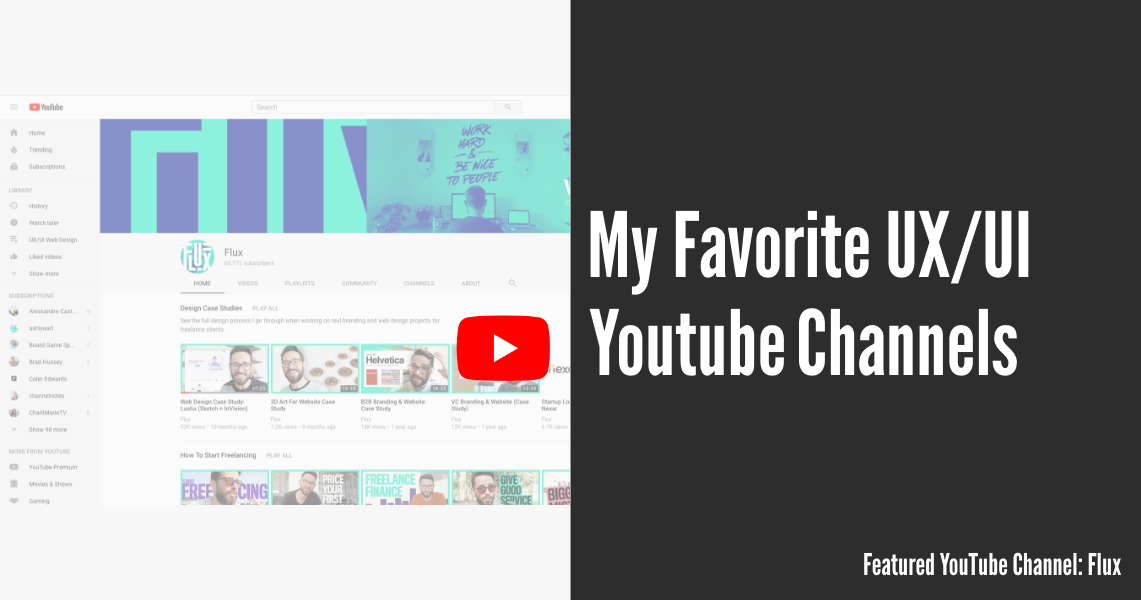
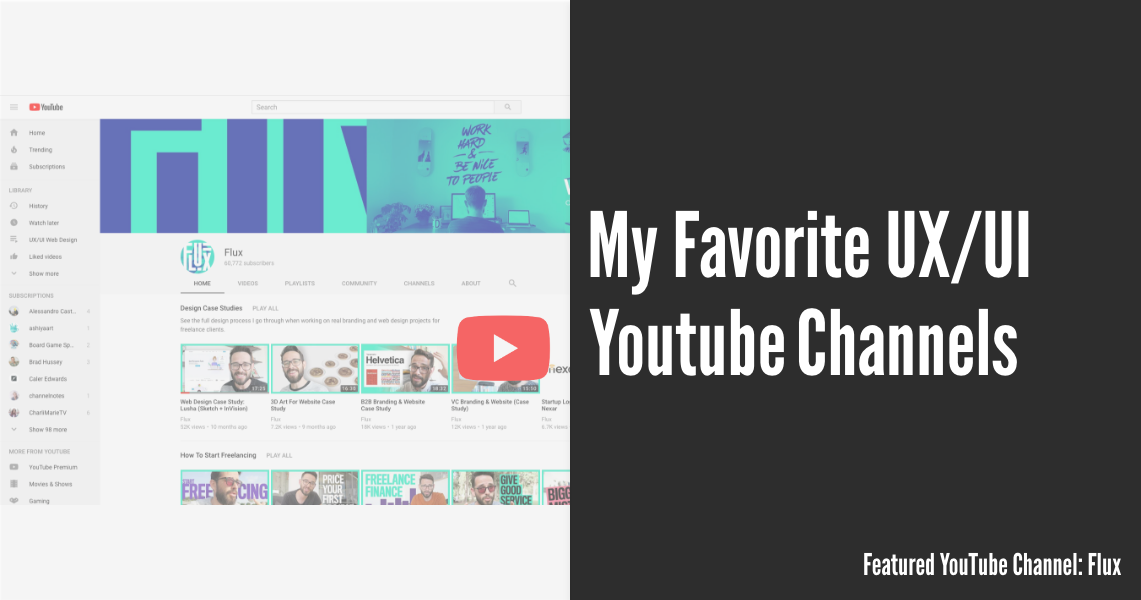
blog post 1

diff --git a/css/main.css b/css/main.css
@@ -40,14 +40,10 @@ p {
 
 p.gray { color: hsla(0, 0%, 40%, .5); }
 
-
-hr { border-top: 1px solid #000; }
-
-	hr.white { 
-		border-top: 1px solid #fff; 
-		opacity: 0.2;
-		margin: 75px 0 25px 0; 
-	}
+hr { 
+	border-top: 1px solid #000;
+	margin-bottom: 0;
+}
 
 span.bold { font-weight: 700; }
 
@@ -286,7 +282,7 @@ Blog Homepage
 ========================================================================== */
 #blog { 
     padding: 75px 0;
-    background-color: #f8f8f8;
+    /*background-color: #f8f8f8;*/
 }
 
 .blog-row { padding-top: 50px; }
@@ -360,7 +356,8 @@ Skillset
 ========================================================================== */
 #skillset { 
 	padding: 75px 0;
-	background-color:#fafafa;
+	/*background-color: #fff;*/
+	/*background-color:#fafafa;*/
 }
 
 .skills-container h3 { padding-bottom: 15px; }

diff --git a/index.html b/index.html
@@ -138,13 +138,15 @@
     </div>
     <!-- /Projects -->
 
+    <hr>
+
     <!-- Writing -->
     <div id="blog">
       <div class="container blog-container">
         <h3>_writing</h3>
         <div class="row blog-row">
           <div class="col-lg-6 blog-col">
-            <img src="img/blog/youtube-blog-banner-hp.png" class="img-fluid" alt="my favorite UX/UI youtube channels banner">
+            <img src="img/blog/youtube-blog-banner.png" class="img-fluid" alt="my favorite UX/UI youtube channels banner">
           </div>
           <div class="col-lg-6 blog-col text">
             <h5>resources</h5>
@@ -158,6 +160,8 @@
       </div>
     </div>
     <!-- /Writing -->
+
+    <hr>
 
     <!-- Skillset -->
     <div id="skillset">
